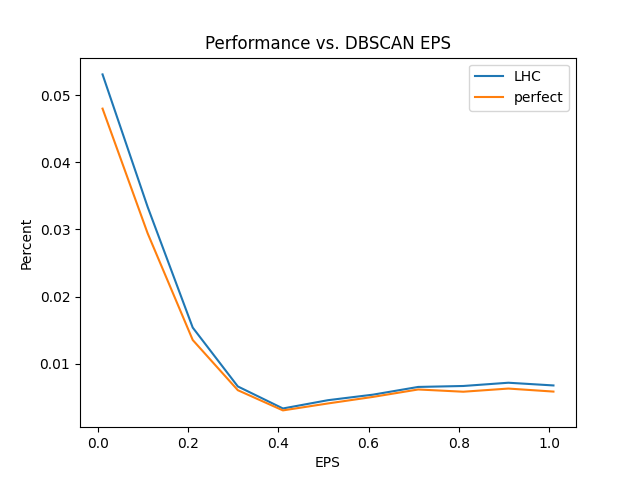
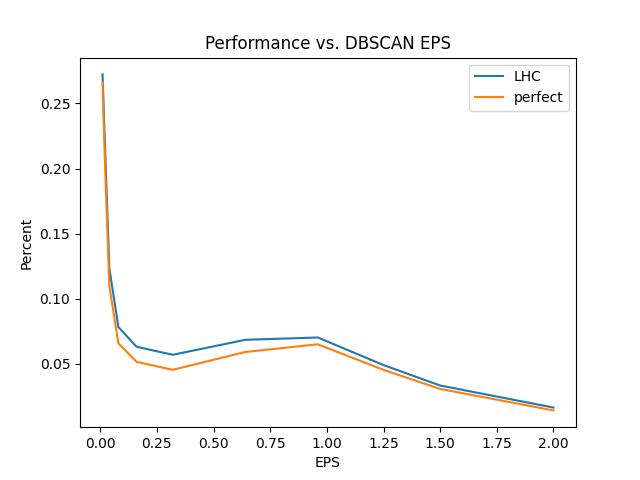
updates

diff --git a/test_gpu.py b/test_gpu.py
@@ -24,11 +24,72 @@ from collections import Counter
 import multiprocessing
 import time
 import glob
+import concurrent.futures as cf
 
-from sklearn.cluster import DBSCAN, KMeans, SpectralClustering
-#from cuml.cluster import DBSCAN
+#from sklearn.cluster import DBSCAN, KMeans, SpectralClustering
+from cuml.cluster import DBSCAN
 
 
+
+def process_element(X, Y):
+    #logic
+
+    #X=X.to(device)
+
+    pred = mva(X) #mlp, not using gnn for now
+    
+    #here must move data to CPU for numpy
+    #pred = pred.cpu()
+
+    #clusterize data with DBSCAN (arbitrary hyperparams so far)
+    #pred = pred.detach().numpy()
+    clusterizer = DBSCAN(eps=EPS, min_samples=3) # to match knn graph
+    clusterizer.fit(pred)
+
+
+    #get metadata of predicted track and compare
+    u_labels = np.unique(clusterizer.labels_)
+    n_particles = np.unique(Y)
+    cluster_ratios.append(len(u_labels)/len(n_particles))
+    
+    
+    # metric definitions:
+    LHC_match_efficiencies = []
+    perfect_match_efficiencies = []
+    for l in u_labels:
+        if l==-1: continue
+    
+        extraneous_i = 0
+        total_sims = []
+        for i in range(len(pred)):
+            if clusterizer.labels_[i] == l:
+                total_sims.append(Y[i])
+        #print(f"Cluster {l}:", end=" ")
+        all = len(total_sims)
+        counts = Counter(total_sims)
+        mce = counts.most_common(1)[0][0]
+        total_sims = [item for item in total_sims if item != mce]
+        extraneous_i = len(total_sims)
+        match_eff = 1 - (extraneous_i/all)
+        #print(f"Ratio: {extraneous_i}/{all}. Match efficiency: {match_eff}.", end=" ")
+        #if match_eff > 0.75: print("(LHC Match)")
+        #if match_eff == 1: print("(Perfect Match)")
+        #print()
+        if match_eff == 1: perfect_match_efficiencies.append(match_eff)
+        if match_eff >= 0.75: LHC_match_efficiencies.append(match_eff)
+    LHC_percent = len(LHC_match_efficiencies)/len(u_labels)
+    perfect_percent = len(perfect_match_efficiencies)/len(u_labels)
+    
+    #LHC_percents.append(LHC_percent)
+    #perfect_percents.append(perfect_percent)
+    #if LHC_percent >= 0.9: LHC_matches.append(1)
+    #else: LHC_matches.append(0)
+    #if perfect_percent >= 0.9: perfect_matches.append(1)
+    #else: perfect_matches.append(0)
+
+    result = [LHC_percent, perfect_percent]
+
+    return result
 
 
 
@@ -53,8 +114,8 @@ def main():
 
 
 
-    #define vars for metric calc, using pseudo-exponential dist below 0.4
-    EPS_arr = [0.001, 0.002, 0.005, 0.011, 0.022, 0.046, 0.095, 0.194, 0.290, 0.400]
+    #define vars for metric calc
+    EPS_arr = [0.01, 0.11, 0.21, 0.31, 0.41, 0.51, 0.61, 0.71, 0.81, 0.91, 1.01]
     LHC_arr = []
     perfect_arr = []
     for EPS in EPS_arr:
@@ -73,7 +134,24 @@ def main():
         #print("\nCalculating metrics...")
 
         
+        #####parallel processing
+
+        num_threads = 4 # modify, look at nvidia-smi for example
+
+        with cf.ThreadPoolExecutor(max_workers=num_threads) as ex:
+            args_list = [(X,Y) for i,(X,Y,sizeList) in enumerate(testDS)]
         
+            futures = [ex.submit(process_element, *args) for args in args_list]
+            cf.wait(futures)
+            
+            results = [f.result() for f in futures]
+
+        #####
+
+        LHC_arr.append(np.mean(results[:,0]))
+        perfect_arr.append(np.mean(results[:,1]))
+
+        '''    
         for i,(X,Y,sizeList) in enumerate(testDS):
             if i>len(testDS):
                 i=0
@@ -134,10 +212,10 @@ def main():
             #if perfect_percent >= 0.9: perfect_matches.append(1)
             #else: perfect_matches.append(0)
 
-
+        
         LHC_arr.append(np.mean(LHC_percents))
         perfect_arr.append(np.mean(perfect_percents))
-        
+        '''
         
 
     print("Done, generating plots")

diff --git a/mlp.py b/mlp.py
@@ -91,7 +91,7 @@ class Net(nn.Module):
         self.ac4 = nn.LeakyReLU()
         self.fc5 = nn.Linear(25,25)
         self.ac5 = nn.LeakyReLU()
-        self.fcLast = nn.Linear(25,4) #2nd dim must match gnn. attempting cast to 4d for no reason
+        self.fcLast = nn.Linear(25,8) #2nd dim must match gnn. attempting cast to 8d for no reason
     
     def forward(self,x):
         x = self.fc1(x)
@@ -125,7 +125,7 @@ def main():
 
 
     mva = Net(d=len(featureBranches)).to(device) ## with xmod set, without should be 6
-    opt = torch.optim.Adam(mva.parameters(),lr=.001)
+    opt = torch.optim.Adam(mva.parameters(),lr=.000) # was 0.001, testing
 
     scaler = GradScaler()
     scheduler = StepLR(opt, step_size=3, gamma=0.5)
@@ -161,7 +161,7 @@ def main():
                 for j,(jetPred,jetY) in enumerate(zip(predsplit,ysplit)): #vectorize this somehow?
                     if jetY.shape[0]==1: #needed for jan26 ntuples but not later
                         continue
-                    batchLoss+=PairwiseHingeLoss(jetPred,jetY, torch.tensor(5)) #a=weight of hinge over MSE, trying 5X loss for hinge.
+                    batchLoss+=PairwiseHingeLoss(jetPred,jetY, torch.tensor(10)) #a=weight of hinge over MSE, trying 10X loss for hinge.
             
                 if i%50==epoch:
                     print("batch {} loss: {:.5f}".format(i,float(batchLoss.detach())))
